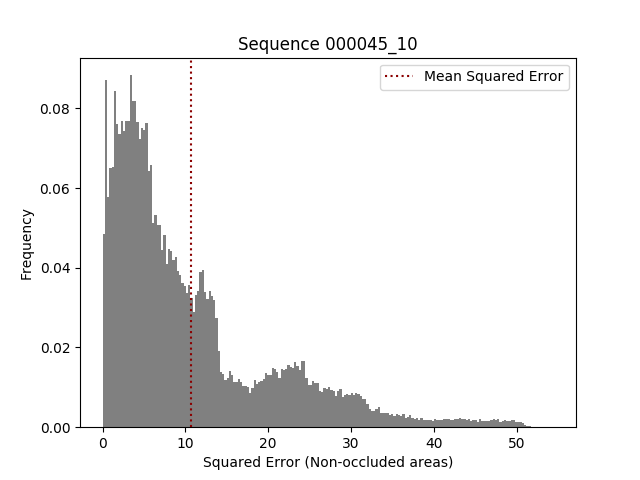
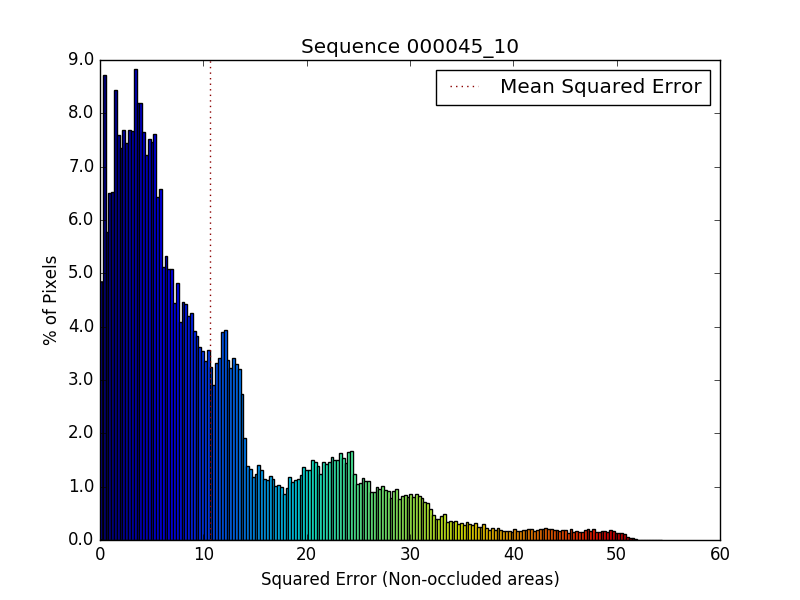
Add colormap jet to the histograms

diff --git a/code/video_surveillance.py b/code/video_surveillance.py
@@ -95,9 +95,21 @@ def background_estimation(cf):
                                                                  cf.image_sequences, imageList):
 
                 # Histogram
-                plt.hist(np.ravel(se[vp]), bins=200, normed=True, color='grey')
+                # plt.hist(np.ravel(se[vp]), bins=200, normed=True, color='grey')
+
+                n, bins, patches = plt.hist(np.ravel(se[vp]), bins=200, normed=True, color='grey')
                 formatter = mticker.FuncFormatter(lambda v, pos: str(v * 100))
                 plt.gca().yaxis.set_major_formatter(formatter)
+
+                # Change the color map
+                color_map = plt.cm.get_cmap('jet')
+                # scale values to interval [0,1]
+                bin_centers = 0.5 * (bins[:-1] + bins[1:])
+                col = bin_centers - min(bin_centers)
+                col /= max(col)
+                for c, p in zip(col, patches):
+                    plt.setp(p, 'facecolor', color_map(c))
+
                 plt.axvline(mse, c='darkred', linestyle=':', label='Mean Squared Error')
                 plt.xlabel('Squared Error (Non-occluded areas)')
                 plt.ylabel('% of Pixels')

diff --git a/code/config/kitti.py b/code/config/kitti.py
@@ -9,8 +9,8 @@ image_sequences              = ['000045_10', '000157_10']   # List of the sequen
 image_type                   = 'png'                        # Input image type
 
 # Evaluate Optical Flow
-evaluate                     = False
-plot_optical_flow            = True
+evaluate                     = True
+plot_optical_flow            = False
 optical_flow_downsample      = 16
 
 # Save results
